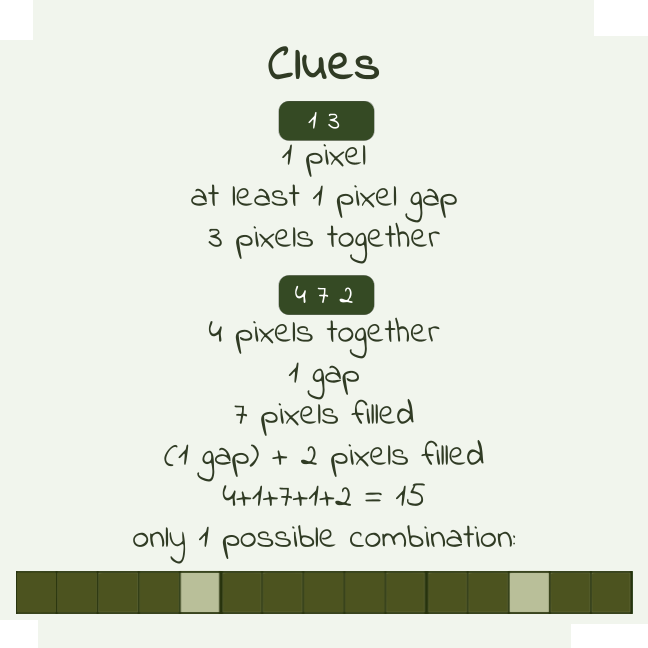
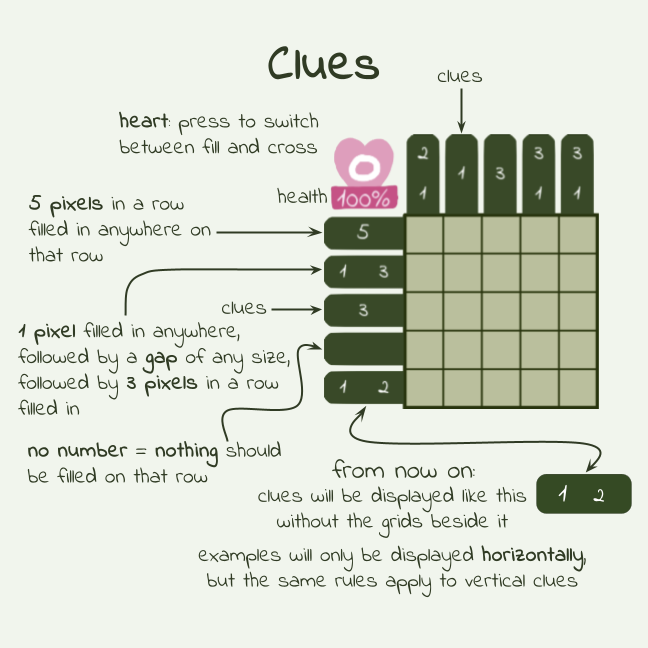
better instructions

diff --git a/CHANGELOG.md b/CHANGELOG.md
@@ -1,6 +1,11 @@
 # Changelog
 
-## [1.2.6] - 2026-08-16
+## [1.2.7] - 2026-08-17
+
+### Changed
+- More detailed instructions page to make it clearer how to play nonograms
+
+## [1.2.6] - 2026-08-17
 
 ### Added
 - `Button` class that handles drawing, clicking, hover animation, and modification of buttons, including 2 modes - image and text
